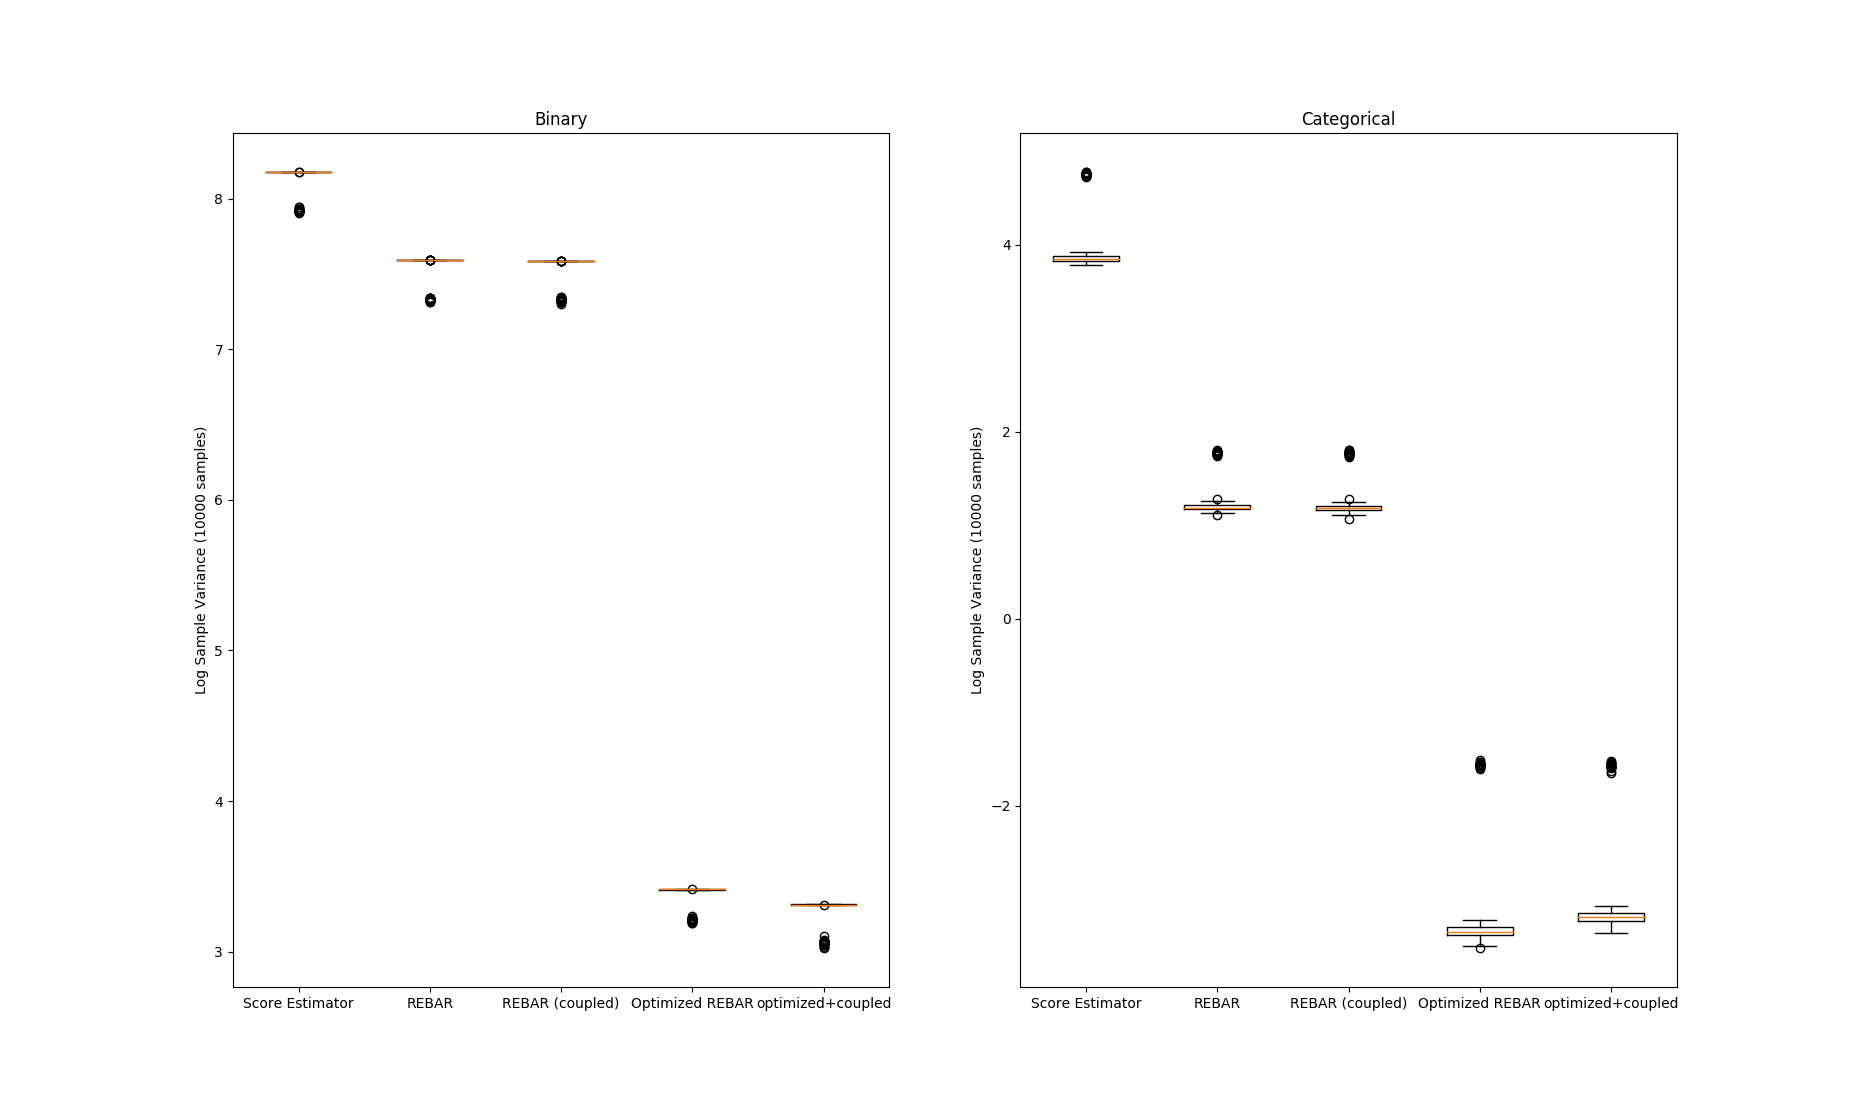
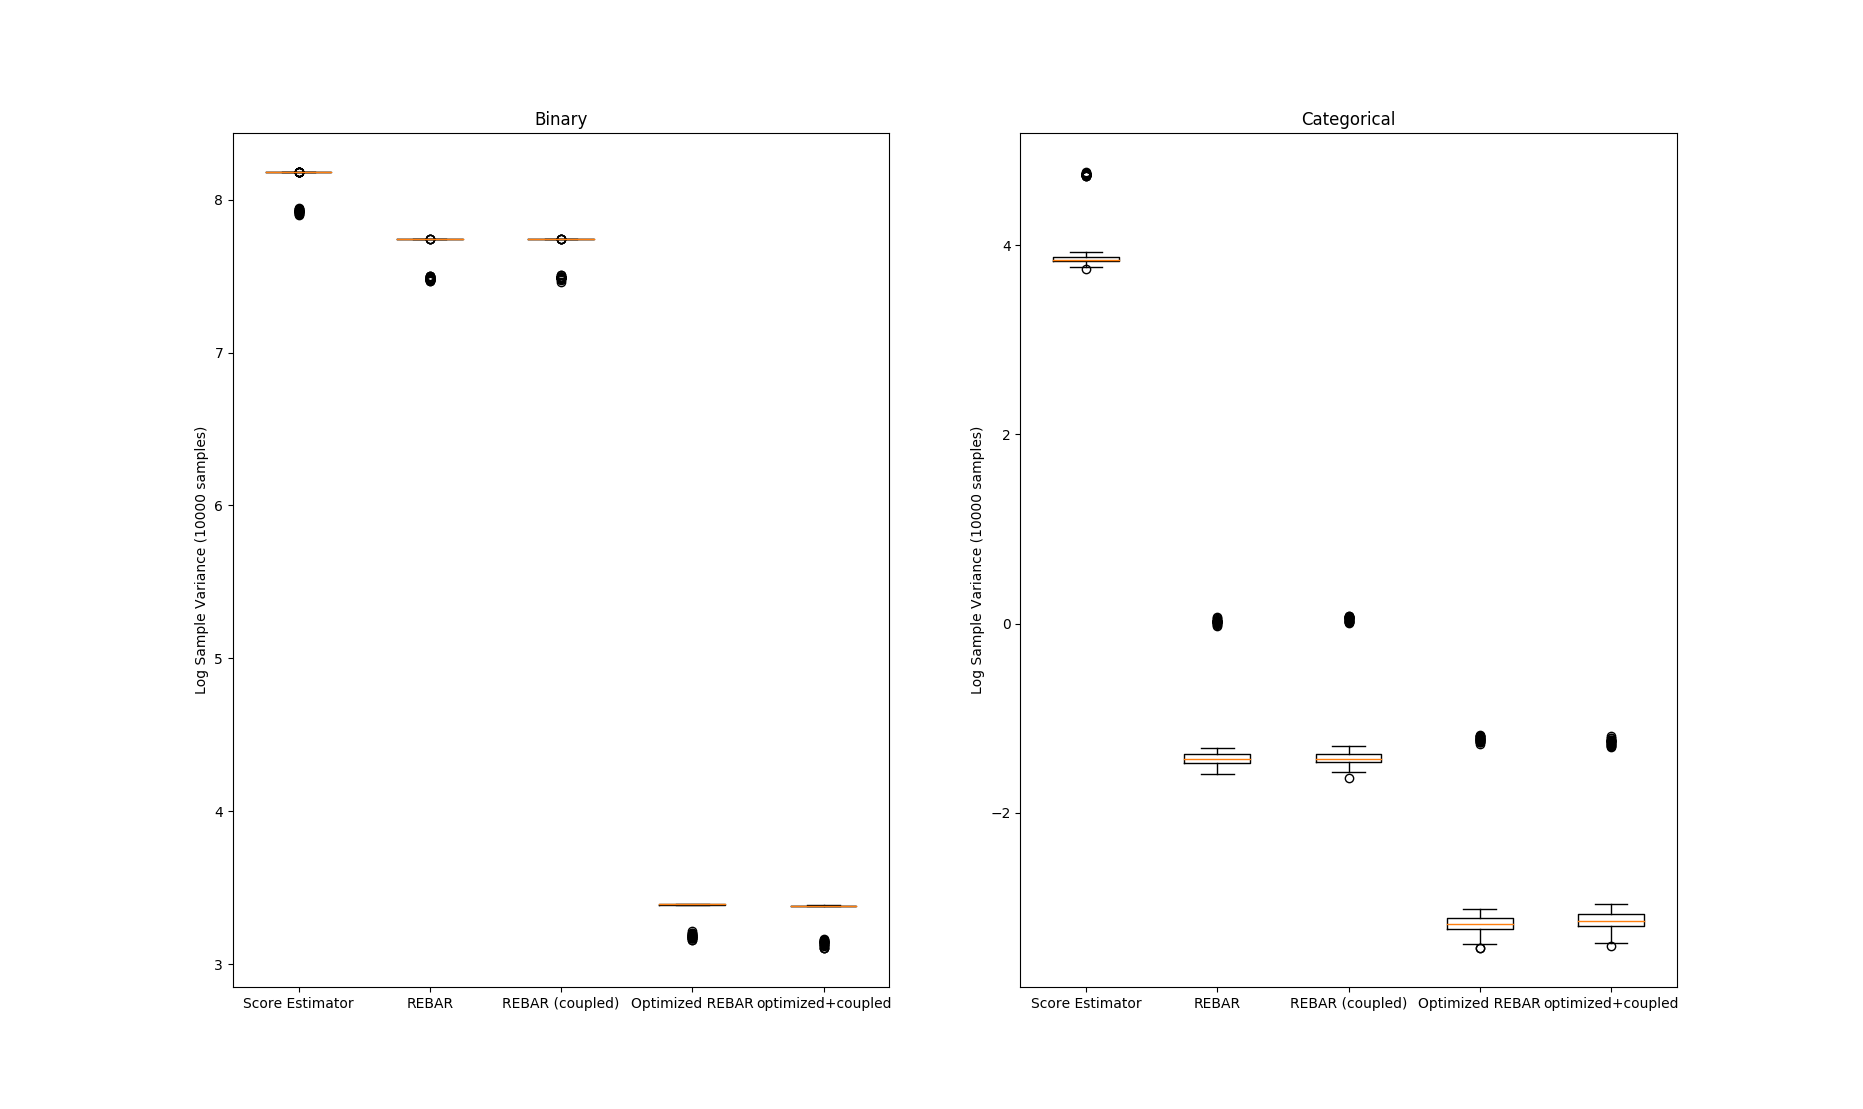
fixed breaking gatedzb typo. Removed special handling of weight gradient.Fixed some issues with experiments.

diff --git a/relaxflow/relax.py b/relaxflow/relax.py
@@ -59,9 +59,8 @@ def RELAX(loss, control, conditional_control, logp,
         gradcollection = zip(pure_grads, relax_grads, hard_params, scores)
         hard_params_grads = []
         vectorized = []
-        var_params_grads = [(tf.zeros_like(var_param), var_param)
-                            for var_param in var_params]
-        weight_grad = tf.zeros_like(weight, dtype=weight.dtype)
+        #var_params_grads = [(tf.zeros_like(var_param), var_param)
+        #                    for var_param in var_params]
         approx_gap = (loss - weight*conditional_control)
         if summaries:
             tf.summary.scalar('approx_gap', approx_gap)
@@ -85,15 +84,13 @@ def RELAX(loss, control, conditional_control, logp,
                     # complete RELAX estimator
                     full_grad += (score_grad + weight*relax_grad)
                 hard_params_grads += [(full_grad, hard_param)]
-                weight_grad = weight_grad - 2.*tf.reduce_sum(full_grad*(-conditional_control * score + relax_grad))
                 vectorized.append(tf.reshape(full_grad, (-1,)))
             with tf.name_scope("variance_grad"):
                 grad_vec = tf.reduce_mean(tf.concat(vectorized, axis=0))
-                #pdb.set_trace()
                 grad_grads = tf.gradients(grad_vec, var_params)
                 if handle_nan:
                     grad_grads = [killnan(grad) for grad in grad_grads]
-                var_params_grad = [(-2*grad_vec*grad_grad, var_param)
+                var_params_grads = [(2*grad_vec*grad_grad, var_param)
                                    for grad_grad, var_param in zip(grad_grads, var_params)]
 
 
@@ -107,7 +104,7 @@ def RELAX(loss, control, conditional_control, logp,
             # ordinary parameter gradients
             params_grads = list(zip(tf.gradients(loss, params), params))
 
-        return hard_params_grads + params_grads, var_params_grads + [(weight_grad, weight)]
+        return hard_params_grads + params_grads, var_params_grads #+ [(weight_grad, weight)]
 
 if __name__ is "__main__":
 
@@ -129,12 +126,15 @@ if __name__ is "__main__":
         nu_var = tf.Variable(1.)
         nu_switch = tf.Variable(1.)
         nu = nu_switch*(nu_var)
-
+        var_summaries = [tf.summary.scalar("temp_" + ("cat" if categorical else "bin"), temp),
+                          tf.summary.scalar("nu_" + ("cat" if categorical else "bin"), nu)]
         tempc_var = tf.Variable(1.)
         tempc = tf.nn.softplus(tempc_var)
         nuc_var = tf.Variable(1.)
         nuc_switch = tf.Variable(1.)
-        nuc = nu_switch*tf.nn.softplus(nuc_var)
+        nuc = nu_switch*(nuc_var)
+        varc_summaries = [tf.summary.scalar("tempc_" + ("cat" if categorical else "bin"), tempc),
+                          tf.summary.scalar("nuc_" + ("cat" if categorical else "bin"), nuc)]
 
         if categorical:
             rep = CategoricalReparam(Z, temperature=temp)
@@ -142,7 +142,7 @@ if __name__ is "__main__":
             rep = BinaryReparam(Z, temperature=temp)
 
         grad, var_grad = RELAX(*rep.rebar_params(f, weight=nu), [Z],
-                               var_params=[temp_var, nu_var])
+                               var_params=[temp_var, nu_var], handle_nan=True)
 
         if categorical:
             repc = CategoricalReparam(Z, coupled=True, temperature=tempc)
@@ -150,7 +150,7 @@ if __name__ is "__main__":
             repc = BinaryReparam(Z, coupled=True, temperature=tempc)
 
         gradc, varc_grad = RELAX(*repc.rebar_params(f, weight=nuc), [Z],
-                                 var_params=[tempc_var, nuc_var])
+                                 var_params=[tempc_var, nuc_var], handle_nan=True)
 
         grad_estimator = tf.expand_dims(grad[0][0], 0)
         gradc_estimator = tf.expand_dims(gradc[0][0], 0)
@@ -160,12 +160,28 @@ if __name__ is "__main__":
         optc = tf.train.AdamOptimizer()
         trainc_step = opt.apply_gradients(varc_grad)
 
+        train_writer = tf.summary.FileWriter('./opt_param')
+        summaries = tf.summary.merge(var_summaries + varc_summaries)
         sess = tf.InteractiveSession()
         sess.run(tf.global_variables_initializer())
 
+        # Calculate gradients without REBAR
+        sess.run(tf.assign(nu_switch, 0.))
+        raw_grads = []
+        print("Calculate score estimator")
+        for _ in tqdm.tqdm(range(R), total=R):
+            raw_grads += sess.run([grad_estimator])
+        raw_grad = np.concatenate(raw_grads, axis=0)
+        raw_mu = raw_grad.mean(axis=0)
+        raw_var = np.square(raw_grad - raw_mu).mean(axis=0)
+
+        #switch REBAR on
+        sess.run(tf.assign(nu_switch, 1.))
+
         # Calculate gradients using REBAR
         base_grads = []
-        for _ in range(R):
+        print("Calculate REBAR estimator")
+        for _ in tqdm.tqdm(range(R), total=R):
             base_grads += sess.run([(grad_estimator)])
         base_grad = np.concatenate(base_grads, axis=0)
         base_mu = base_grad.mean(axis=0)
@@ -173,7 +189,8 @@ if __name__ is "__main__":
 
         # Calculate gradients using REBAR with coupling
         couple_grads = []
-        for _ in range(R):
+        print("Calculate coupled estimator")
+        for _ in tqdm.tqdm(range(R), total=R):
             couple_grads += sess.run([gradc_estimator])
         couple_grad = np.concatenate(couple_grads, axis=0)
         couple_mu = couple_grad.mean(axis=0)
@@ -181,36 +198,31 @@ if __name__ is "__main__":
 
         # Optimize nu and temp, then Calculate gradients using REBAR
         Nsteps = 10000
-        for _ in tqdm.tqdm(range(Nsteps), total=Nsteps):
-            sess.run([train_step, trainc_step])
+        print("Optimize variance parameters")
+        for step in tqdm.tqdm(range(Nsteps), total=Nsteps):
+            _, _, notes = sess.run([train_step, trainc_step, summaries])
+            train_writer.add_summary(notes, step)
+        print("optimal temperature: {}".format(temp.eval()))
+        print("optimal temperature (coupled): {}".format(tempc.eval()))
+        print("optimal control weight: {}".format(nu.eval()))
+        print("optimal control weight (coupled): {}".format(nuc.eval()))
 
-        print("""optimal temperature: {}\n
-                 optimal control weight: {}""".format(temp.eval(), nu.eval()))
         opt_grads = []
+        print("Calculate optimized estimator")
         for _ in tqdm.tqdm(range(R), total=R):
             opt_grads += sess.run([grad_estimator])
         opt_grad = np.concatenate(opt_grads, axis=0)
         opt_mu = opt_grad.mean(axis=0)
         opt_var = np.square(opt_grad - opt_mu).mean(axis=0)
 
-        print("""optimal temperature (coupled): {}\n
-                 optimal control weight (coupled): {}""".format(temp.eval(),
-                                                                nu.eval()))
         optc_grads = []
+        print("Calculate optimized coupled estimator")
         for _ in tqdm.tqdm(range(R), total=R):
             optc_grads += sess.run([gradc_estimator])
         optc_grad = np.concatenate(optc_grads, axis=0)
         optc_mu = optc_grad.mean(axis=0)
         optc_var = np.square(optc_grad - optc_mu).mean(axis=0)
 
-        # Calculate gradients without REBAR
-        sess.run(tf.assign(nu_switch, 0.))
-        raw_grads = []
-        for _ in range(R):
-            raw_grads += sess.run([grad_estimator])
-        raw_grad = np.concatenate(raw_grads, axis=0)
-        raw_mu = raw_grad.mean(axis=0)
-        raw_var = np.square(raw_grad - raw_mu).mean(axis=0)
 
         plt.subplot(1, 2, 2 if categorical else 1)
         svars = np.column_stack([raw_var.ravel(), base_var.ravel(),

diff --git a/relaxflow/reparam.py b/relaxflow/reparam.py
@@ -73,7 +73,7 @@ class DiscreteReparam:
             with tf.name_scope("backward"):
                 self.zb = self.backward(self.param, self.b, self.v)
                 with tf.name_scope("gate"):
-                    self.gatedzb = self.softgate(self.b, self.temperature)
+                    self.gatedzb = self.softgate(self.zb, self.temperature)
             self.logp = self.logpdf(self.param, self.b)
 
     def rebar_params(self, f_loss, weight):
